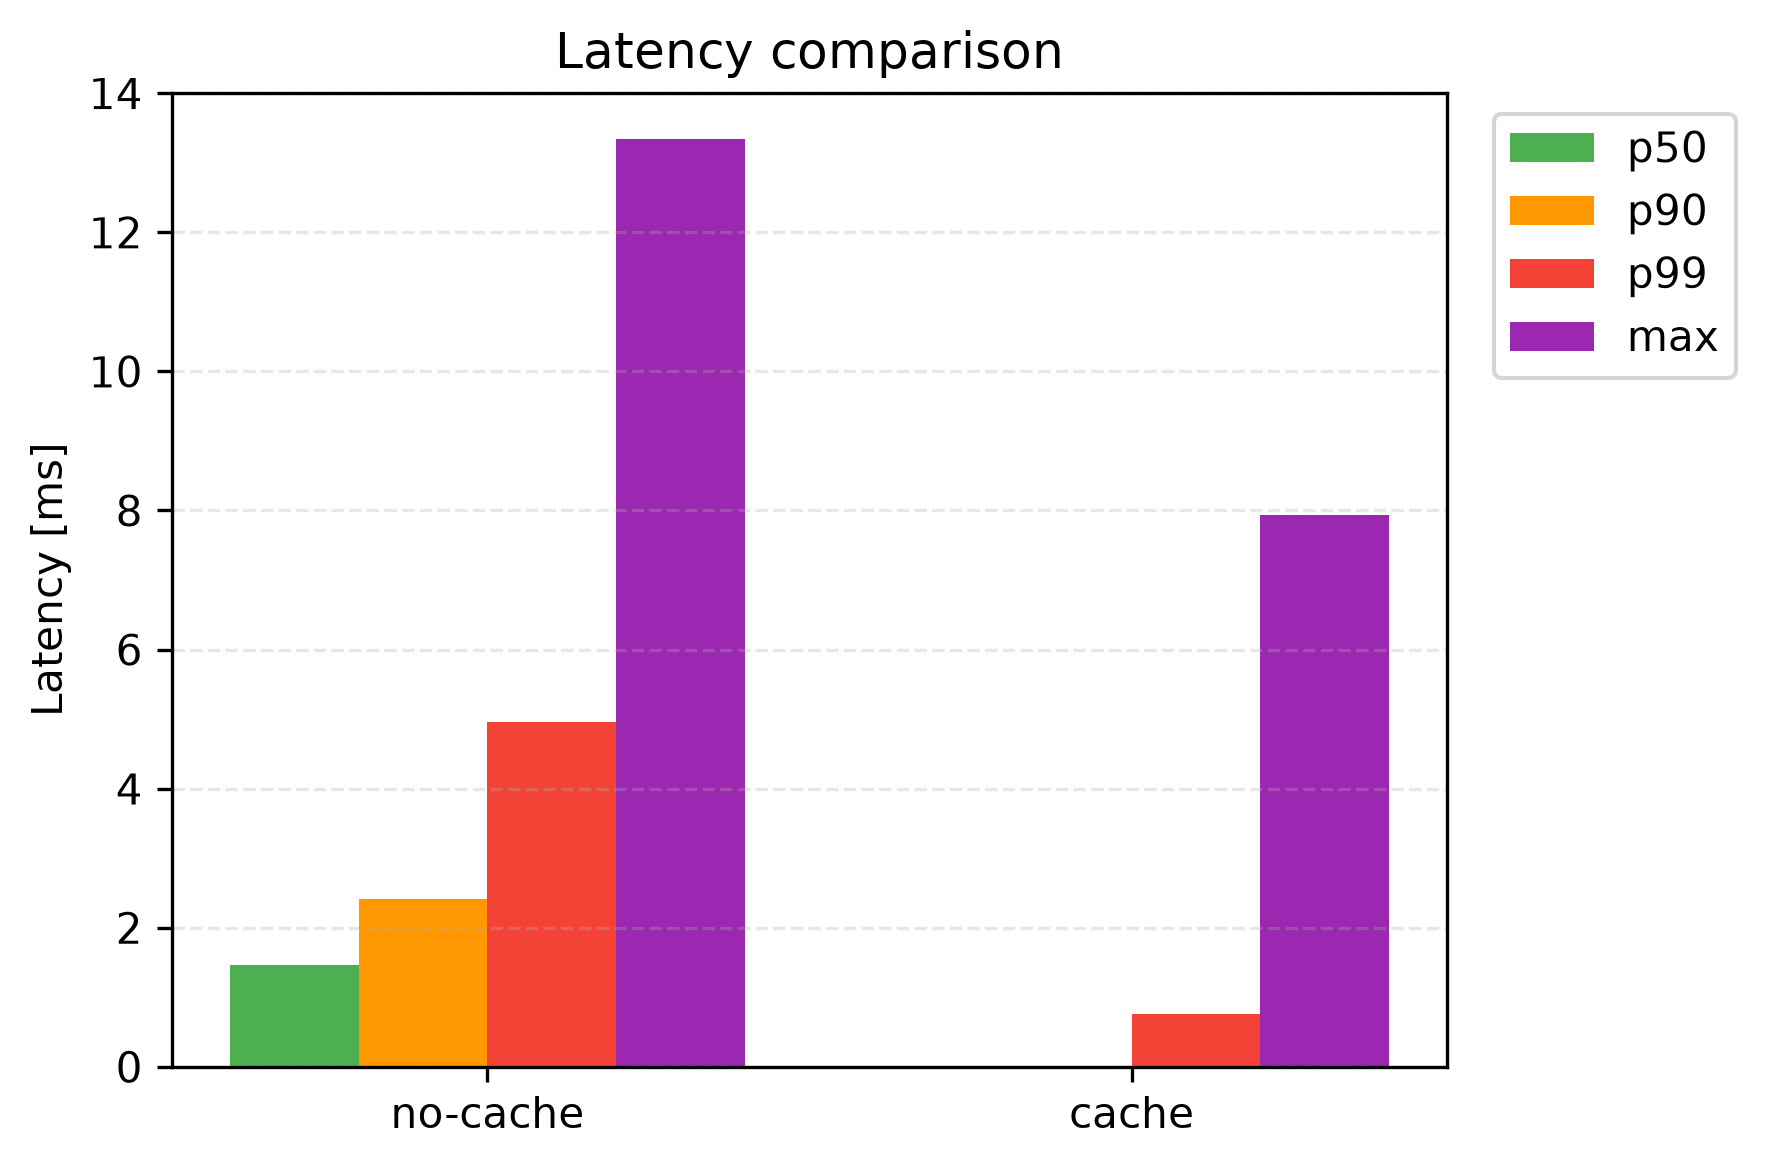
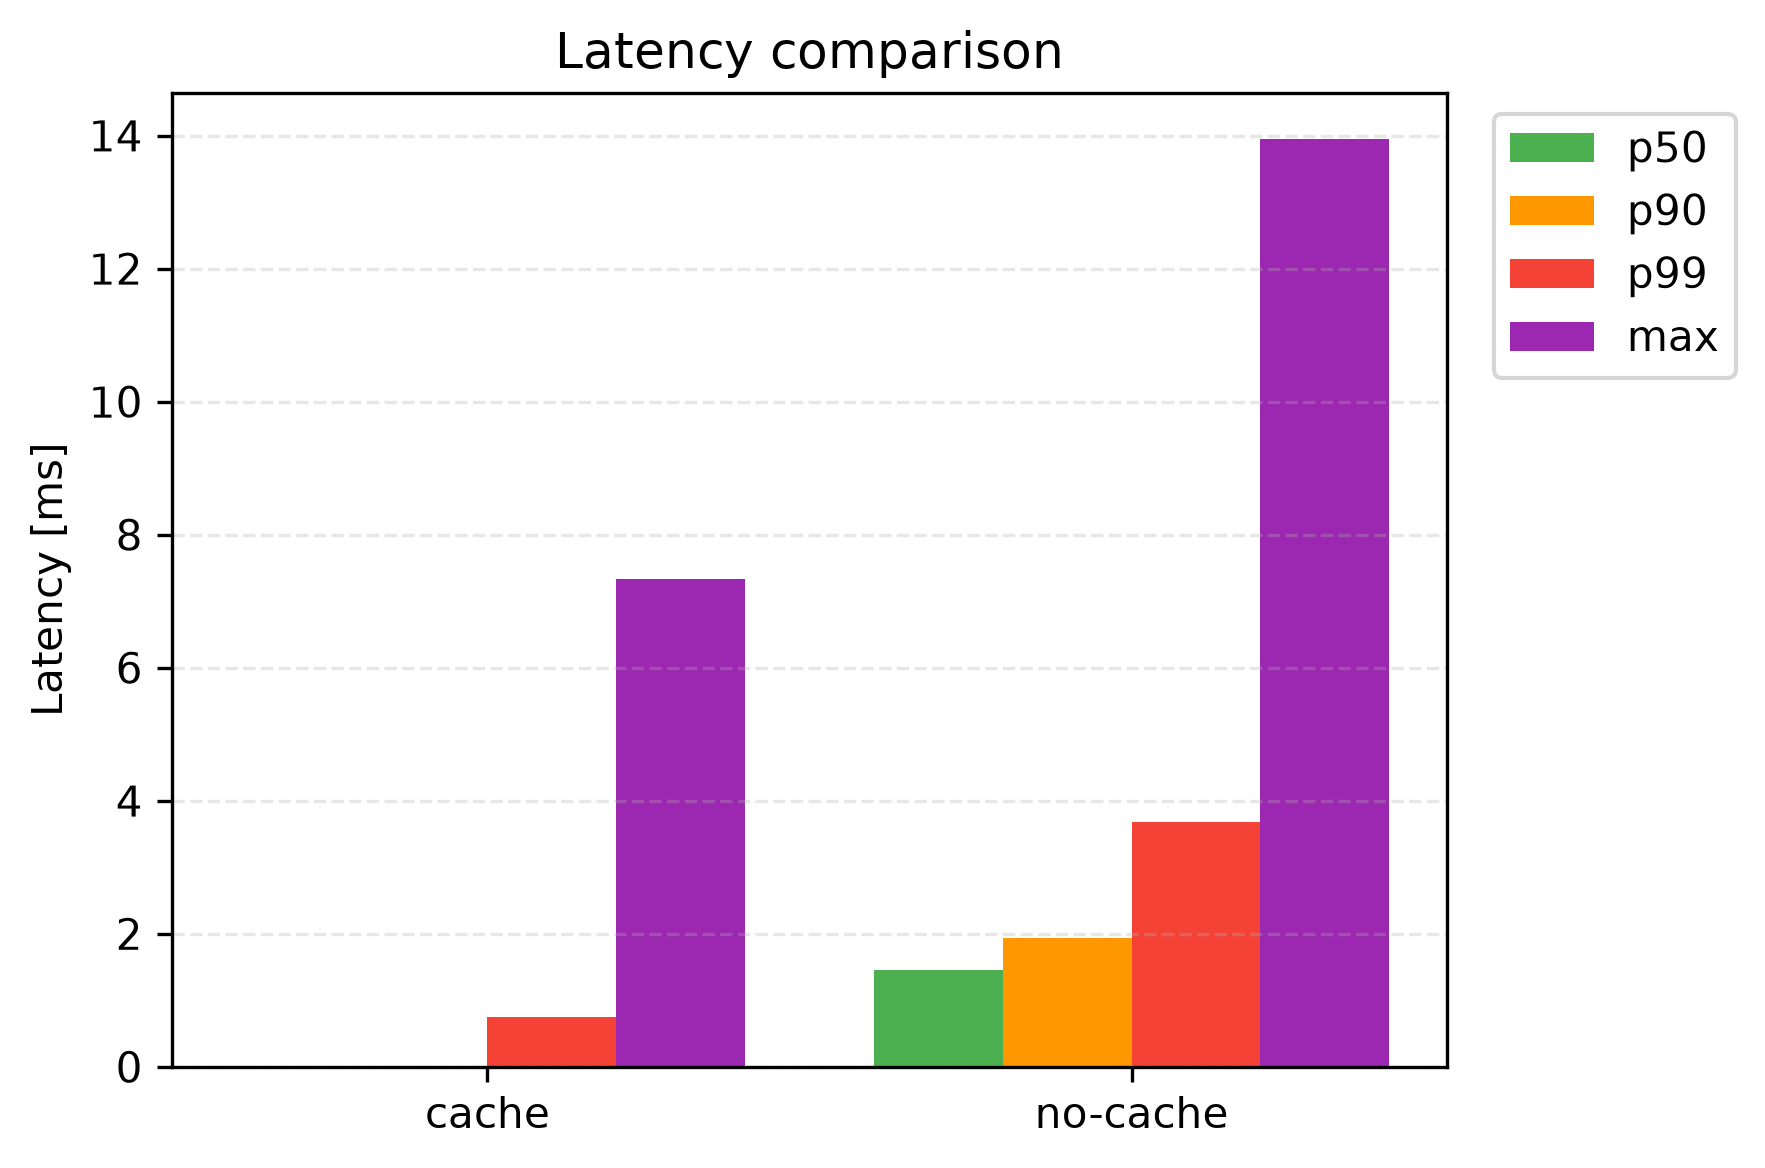
update plot

diff --git a/plot/plot-overlay.py b/plot/plot-overlay.py
@@ -1,0 +1,172 @@
+#!/usr/bin/env python3
+"""
+Overlay two experiments on the same chart with dual y-axes.
+File 1 -> left axis, File 2 -> right axis.
+
+Usage:
+  python3 plot/plot-overlay.py csv/no-cache-...csv csv/cache-...csv --labels "no-cache" "cache"
+"""
+
+import argparse
+import csv
+import os
+import sys
+
+import matplotlib.pyplot as plt  # pyright: ignore[reportMissingImports]
+
+sys.path.insert(0, os.path.dirname(__file__))
+from config import (  # noqa: E402
+    exp1_color,  # pyright: ignore[reportAttributeAccessIssue]
+    exp2_color,  # pyright: ignore[reportAttributeAccessIssue]
+    figsize_overlay,  # pyright: ignore[reportAttributeAccessIssue]
+    grid_style,  # pyright: ignore[reportAttributeAccessIssue]
+    legend_pos_overlay,  # pyright: ignore[reportAttributeAccessIssue]
+    max_color,  # pyright: ignore[reportAttributeAccessIssue]
+    p50_color,  # pyright: ignore[reportAttributeAccessIssue]
+    p90_color,  # pyright: ignore[reportAttributeAccessIssue]
+    p99_color,  # pyright: ignore[reportAttributeAccessIssue]
+)
+
+LATENCY_METRICS = [
+    ("p50_ms", "-", p50_color),
+    ("p90_ms", "-.", p90_color),
+    ("p99_ms", "--", p99_color),
+    ("max", ":", max_color),
+]
+
+
+def load_csv(path):
+    rows = []
+    with open(path) as f:
+        reader = csv.DictReader(f)
+        for row in reader:
+            parsed = {}
+            for k, v in row.items():
+                try:
+                    parsed[k] = float(v)
+                except ValueError:
+                    parsed[k] = v
+            rows.append(parsed)
+    return rows
+
+
+def guess_label(path):
+    data = load_csv(path)
+    if data and "experiment" in data[0]:
+        return data[0]["experiment"]
+    return os.path.basename(path)
+
+
+def flatten_single(data):
+    t = [r["time_s"] for r in data]
+    rest = {k: [r[k] for r in data] for k in data[0] if k != "time_s"}
+    if len(t) == 1:
+        t = [0.0, t[0]]
+        for k in rest:
+            rest[k] = [rest[k][0], rest[k][0]]
+    return t, rest, len(t) == 2 and t[0] == 0.0
+
+
+def main():
+    parser = argparse.ArgumentParser(
+        description="Overlay two experiments with dual y-axes"
+    )
+    parser.add_argument("files", nargs=2)
+    parser.add_argument("--labels", nargs=2)
+    parser.add_argument("-o", "--output")
+    args = parser.parse_args()
+
+    labels = args.labels or [guess_label(f) for f in args.files]
+    os.makedirs("charts", exist_ok=True)
+
+    data_left = load_csv(args.files[0])
+    data_right = load_csv(args.files[1])
+    t_left, vl, single_left = flatten_single(data_left)
+    t_right, vr, single_right = flatten_single(data_right)
+    me_left = [-1] if single_left else None
+    me_right = [-1] if single_right else None
+
+    # throughput
+    fig, ax1 = plt.subplots(figsize=figsize_overlay)
+    ax1.set_xlabel("Time [s]")
+    ax1.set_ylabel(f"Throughput [txns/s]  ({labels[0]})", color=exp1_color)
+    ax1.plot(
+        t_left,
+        vl["rate_tps"],
+        marker="o",
+        markevery=me_left,
+        color=exp1_color,
+        label=labels[0],
+    )
+    ax1.tick_params(axis="y", labelcolor=exp1_color)
+
+    ax2 = ax1.twinx()
+    ax2.set_ylabel(f"Throughput [txns/s]  ({labels[1]})", color=exp2_color)
+    ax2.plot(
+        t_right,
+        vr["rate_tps"],
+        marker="o",
+        markevery=me_right,
+        color=exp2_color,
+        label=labels[1],
+    )
+    ax2.tick_params(axis="y", labelcolor=exp2_color)
+
+    h1, l1 = ax1.get_legend_handles_labels()
+    h2, l2 = ax2.get_legend_handles_labels()
+    ax1.legend(h1 + h2, l1 + l2, **legend_pos_overlay)
+
+    ax1.set_title("Throughput overlay")
+    ax1.grid(True, **grid_style)
+    fig.subplots_adjust(right=0.75)
+    p = args.output or "charts/overlay-throughput.png"
+    plt.savefig(p, dpi=300, bbox_inches="tight")
+    print(f"saved to {p}")
+
+    # latency
+    fig, ax1 = plt.subplots(figsize=figsize_overlay)
+    ax1.set_xlabel("Time [s]")
+    ax1.set_ylabel(f"Latency [ms]  ({labels[0]})", color=exp1_color)
+    for metric, ls, c in LATENCY_METRICS:
+        ax1.plot(
+            t_left,
+            vl[metric],
+            linestyle=ls,
+            marker="o",
+            markevery=me_left,
+            color=c,
+            linewidth=2,
+            label=f"{labels[0]} {metric[:3]}",
+        )
+    ax1.tick_params(axis="y", labelcolor=exp1_color)
+
+    ax2 = ax1.twinx()
+    ax2.set_ylabel(f"Latency [ms]  ({labels[1]})", color=exp2_color)
+    for metric, ls, c in LATENCY_METRICS:
+        ax2.plot(
+            t_right,
+            vr[metric],
+            linestyle=ls,
+            marker="o",
+            markevery=me_right,
+            color=c,
+            linewidth=1,
+            alpha=0.5,
+            label=f"{labels[1]} {metric[:3]}",
+        )
+    ax2.tick_params(axis="y", labelcolor=exp2_color)
+
+    h1, l1 = ax1.get_legend_handles_labels()
+    h2, l2 = ax2.get_legend_handles_labels()
+    ax1.legend(h1 + h2, l1 + l2, **legend_pos_overlay)
+
+    ax1.set_title("Latency overlay")
+    ax1.grid(True, **grid_style)
+    fig.subplots_adjust(right=0.75)
+    p2 = args.output or "charts/overlay-latency.png"
+    plt.savefig(p2, dpi=300, bbox_inches="tight")
+    print(f"saved to {p2}")
+
+
+if __name__ == "__main__":
+    main()

diff --git a/plot/plot-latency.py b/plot/plot-latency.py
@@ -1,8 +1,27 @@
 import argparse
 import csv
 import os
+import sys
 
 import matplotlib.pyplot as plt  # pyright: ignore[reportMissingImports]
+
+sys.path.insert(0, os.path.dirname(__file__))
+from config import (  # noqa: E402
+    figsize_single,
+    grid_style,
+    legend_pos,
+    max_color,
+    p50_color,
+    p90_color,
+    p99_color,
+)
+
+LATENCY_METRICS = [
+    ("p50_ms", "-", p50_color),
+    ("p90_ms", "-.", p90_color),
+    ("p99_ms", "--", p99_color),
+    ("max", ":", max_color),
+]
 
 
 def load_csv(path):
@@ -52,36 +71,35 @@ def main():
     if len(labels) != len(args.files):
         parser.error("number of --labels must match number of files")
 
-    fig, ax = plt.subplots(figsize=(6, 4))
+    fig, ax = plt.subplots(figsize=figsize_single)
     for path, label in zip(args.files, labels):
         data = load_csv(path)
         t = [r["time_s"] for r in data]
-        p50 = [r["p50_ms"] for r in data]
-        p90 = [r["p90_ms"] for r in data]
-        p99 = [r["p99_ms"] for r in data]
-        maxv = [r["max"] for r in data]
+        vals = {m: [r[m] for r in data] for m, _, _ in LATENCY_METRICS}
         single = len(t) == 1
         if single:
             t = [0, t[0]]
-            p50 = [p50[0], p50[0]]
-            p90 = [p90[0], p90[0]]
-            p99 = [p99[0], p99[0]]
-            maxv = [maxv[0], maxv[0]]
+            for m in vals:
+                vals[m] = [vals[m][0], vals[m][0]]
         kwargs = {"markevery": [-1]} if single else {}
-        opts = dict(marker="o", **kwargs)
-        ax.plot(t, p50, label=f"{label} p50", **opts)
-        ax.plot(t, p90, linestyle="-.", label=f"{label} p90", **opts)
-        ax.plot(t, p99, linestyle="--", label=f"{label} p99", **opts)
-        ax.plot(t, maxv, linestyle=":", label=f"{label} max", **opts)
+        for metric, ls, c in LATENCY_METRICS:
+            ax.plot(
+                t,
+                vals[metric],
+                linestyle=ls,
+                color=c,
+                marker="o",
+                label=f"{label} {metric[:3]}",
+                **kwargs,
+            )
 
     ax.set_xlabel("Time [s]")
     ax.set_ylabel("Latency [ms]")
     ax.set_title("Latency over time")
-    ax.legend(loc="upper left", bbox_to_anchor=(1.02, 1))
-    ax.grid(True, linestyle="--", alpha=0.3)
+    ax.legend(**legend_pos)
+    ax.grid(True, **grid_style)
     plt.tight_layout()
     plt.savefig(output, dpi=300, bbox_inches="tight")
-    plt.show()
 
 
 if __name__ == "__main__":

diff --git a/plot/plot-compare.py b/plot/plot-compare.py
@@ -1,15 +1,20 @@
 import argparse
 import csv
 import os
+import sys
 
 import matplotlib.pyplot as plt  # pyright: ignore[reportMissingImports]
 import numpy as np  # pyright: ignore[reportMissingImports]
 
-from plot.color import (  # pyright: ignore[reportMissingImports]
-    max_color,
-    p50_color,
-    p90_color,
-    p99_color,
+sys.path.insert(0, os.path.dirname(__file__))
+from config import (  # noqa: E402
+    figsize_single,  # pyright: ignore[reportAttributeAccessIssue]
+    grid_style,  # pyright: ignore[reportAttributeAccessIssue]
+    legend_pos,  # pyright: ignore[reportAttributeAccessIssue]
+    max_color,  # pyright: ignore[reportAttributeAccessIssue]
+    p50_color,  # pyright: ignore[reportAttributeAccessIssue]
+    p90_color,  # pyright: ignore[reportAttributeAccessIssue]
+    p99_color,  # pyright: ignore[reportAttributeAccessIssue]
 )
 
 
@@ -50,7 +55,7 @@ def main():
     x = np.arange(len(labels))
 
     # Throughput chart
-    fig, ax = plt.subplots(figsize=(6, 4))
+    fig, ax = plt.subplots(figsize=figsize_single)
     colors = plt.cm.tab10(np.linspace(0, 1, len(labels)))
     bars = ax.bar(x, throughputs, 0.5, color=colors)
     ax.set_xticks(x)
@@ -63,15 +68,14 @@ def main():
 
     ax.bar_label(bars, labels=[fmt(v) for v in throughputs], padding=3)
     ax.margins(y=0.15)
-    ax.grid(True, linestyle="--", alpha=0.3, axis="y")
+    ax.grid(True, axis="y", **grid_style)
     plt.tight_layout()
     throughput_out = args.output or "charts/comparison-throughput.png"
     plt.savefig(throughput_out, dpi=300, bbox_inches="tight")
-    plt.show()
     print(f"saved to {throughput_out}")
 
     # Latency chart
-    fig, ax = plt.subplots(figsize=(6, 4))
+    fig, ax = plt.subplots(figsize=figsize_single)
     bar_width = 0.2
     offsets = np.arange(len(labels))
     ax.bar(offsets - 1.5 * bar_width, p50, bar_width, label="p50", color=p50_color)
@@ -82,12 +86,11 @@ def main():
     ax.set_xticklabels(labels)
     ax.set_ylabel("Latency [ms]")
     ax.set_title("Latency comparison")
-    ax.legend(loc="upper left", bbox_to_anchor=(1.02, 1))
-    ax.grid(True, linestyle="--", alpha=0.3, axis="y")
+    ax.legend(**legend_pos)
+    ax.grid(True, axis="y", **grid_style)
     plt.tight_layout()
     latency_out = "charts/comparison-latency.png"
     plt.savefig(latency_out, dpi=300, bbox_inches="tight")
-    plt.show()
     print(f"saved to {latency_out}")
 
 

diff --git a/plot/plot-throughput.py b/plot/plot-throughput.py
@@ -1,8 +1,16 @@
 import argparse
 import csv
 import os
+import sys
 
 import matplotlib.pyplot as plt  # pyright: ignore[reportMissingImports]
+
+sys.path.insert(0, os.path.dirname(__file__))
+from config import (  # noqa: E402  # pyright: ignore[reportAttributeAccessIssue]
+    figsize_single,  # pyright: ignore[reportAttributeAccessIssue]
+    grid_style,  # pyright: ignore[reportAttributeAccessIssue]
+    legend_pos,  # pyright: ignore[reportAttributeAccessIssue]
+)
 
 
 def load_csv(path):
@@ -52,7 +60,7 @@ def main():
     if len(labels) != len(args.files):
         parser.error("number of --labels must match number of files")
 
-    fig, ax = plt.subplots(figsize=(6, 4))
+    fig, ax = plt.subplots(figsize=figsize_single)
     for path, label in zip(args.files, labels):
         data = load_csv(path)
         t = [r["time_s"] for r in data]
@@ -66,11 +74,10 @@ def main():
     ax.set_xlabel("Time [s]")
     ax.set_ylabel("Throughput [txns/s]")
     ax.set_title("Throughput over time")
-    ax.legend(loc="upper left", bbox_to_anchor=(1.02, 1))
-    ax.grid(True, linestyle="--", alpha=0.3)
+    ax.legend(**legend_pos)
+    ax.grid(True, **grid_style)
     plt.tight_layout()
     plt.savefig(output, dpi=300, bbox_inches="tight")
-    plt.show()
 
 
 if __name__ == "__main__":

diff --git a/plot/config.py b/plot/config.py
@@ -1,0 +1,15 @@
+p50_color = "#4CAF50"
+p90_color = "#FF9800"
+p99_color = "#F44336"
+max_color = "#9C27B0"
+
+exp1_color = "#2196F3"
+exp2_color = "#FF5722"
+
+legend_pos = {"loc": "upper left", "bbox_to_anchor": (1.02, 1)}
+legend_pos_overlay = {"loc": "upper left", "bbox_to_anchor": (1.25, 1)}
+
+grid_style = {"linestyle": "--", "alpha": 0.3}
+
+figsize_single = (6, 4)
+figsize_overlay = (8, 4)
